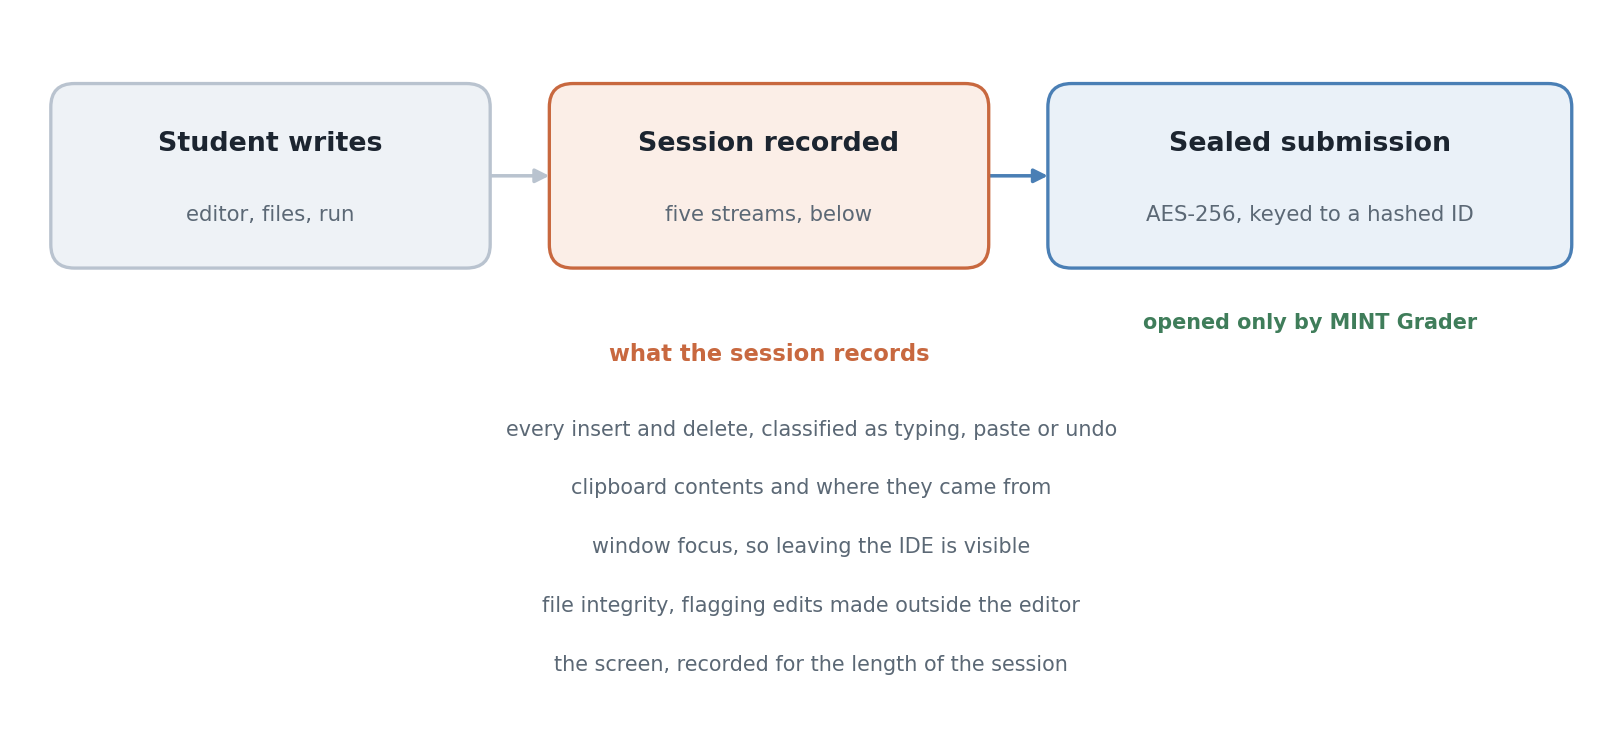
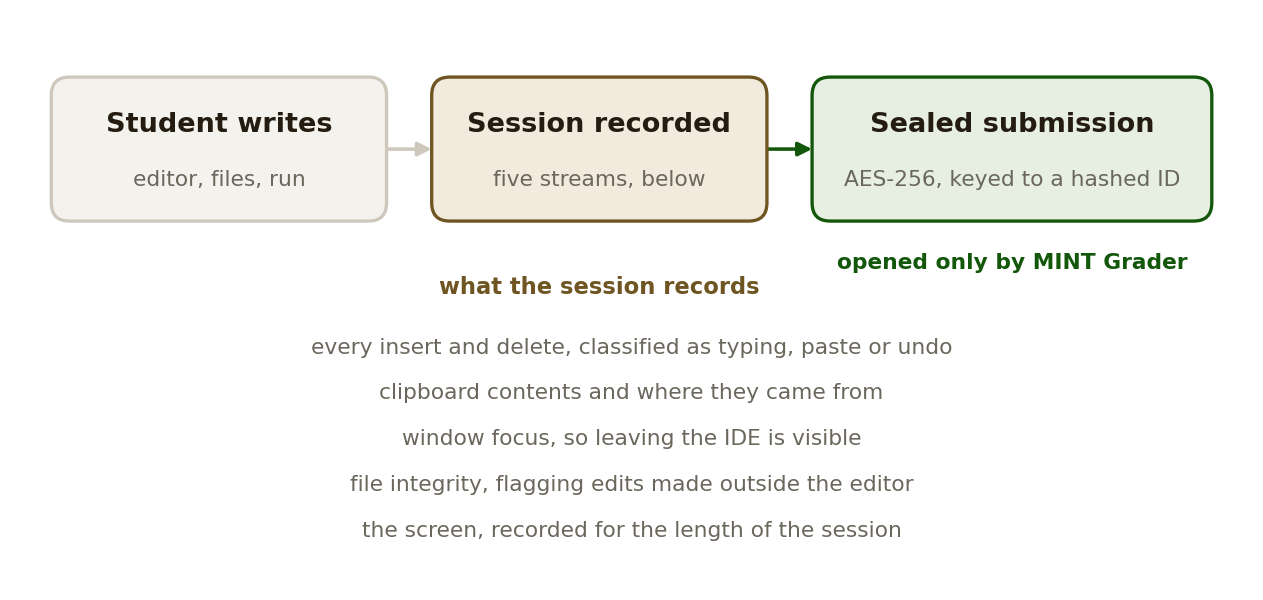
Rebuild README to the second standard
Centered header with shields badges in the fixed order, a Status badge, a
captioned hero redrawn with the shared figstyle palette on a transparent
ground, Features split into subheadings, and a Related section pointing at
MINT Grader. README and docs only; no source file is touched.

diff --git a/docs/figures/figstyle.py b/docs/figures/figstyle.py
@@ -1,0 +1,123 @@
+"""House style for README figures. Copy this file next to make_hero.py.
+
+One palette for every repository, taken from the portfolio site, so a README
+figure, a social preview card and the site read as one hand. Light figures sit
+on GitHub's white canvas, dark figures on its #0d1117 canvas. Both are saved
+with a transparent background: GitHub paints its own canvas behind README
+images, so the figure follows whichever theme the reader has, including the
+dimmed dark theme, without a visible rectangle.
+
+Type: if a fonts/ directory sits beside this file with Archivo-Regular.ttf,
+Archivo-SemiBold.ttf and IBMPlexMono-Medium.ttf (built by
+_standards/fonts/build_fonts.py), labels are set in Archivo and numbers in IBM
+Plex Mono, the site's faces. Without it, DejaVu Sans, so nothing breaks.
+
+    import figstyle
+
+    def draw(T):                       # T is one entry of figstyle.PALETTE
+        fig, ax = plt.subplots(figsize=(figstyle.WIDTH, 4.6))
+        ax.text(..., fontfamily=figstyle.MONO)     # numbers
+        return fig
+
+    figstyle.save_both(draw, HERE + "hero_scenarios")
+    # writes hero_scenarios.png and hero_scenarios-dark.png
+
+Contrast on the canvas each theme is drawn for, WCAG ratio: light green 8.8,
+light gold 7.0, light muted 5.4; dark green 9.8, dark gold 8.4, dark muted 8.2.
+"""
+import glob
+import os
+
+import matplotlib
+
+matplotlib.use("Agg")
+import matplotlib.pyplot as plt
+from matplotlib import font_manager
+
+PALETTE = {
+    "light": dict(
+        canvas="#ffffff",       # GitHub light canvas, for reference only, never painted
+        ink="#241c10",          # site day ink
+        soft="#332918",
+        muted="#6b675c",
+        line="#cdc8bb",
+        fill="#f4f2ec",         # box fill, a warm paper tint on white
+        green="#12570a",        # site day green
+        gold="#6f5522",         # site day gold
+        green_fill="#e6efe2",
+        gold_fill="#f2ebdd",
+    ),
+    "dark": dict(
+        canvas="#0d1117",       # GitHub dark canvas, for reference only, never painted
+        ink="#ece7d9",          # site night ink, bone white
+        soft="#ddd9cb",
+        muted="#a9ac9b",
+        line="#3a3c33",
+        fill="#161811",
+        green="#44d62c",        # site night green, phosphor
+        gold="#c9a96a",         # site night gold, brass
+        green_fill="#12200f",
+        gold_fill="#26211a",
+    ),
+}
+
+DPI = 170
+WIDTH = 9.2      # inches. 900 / (9.2 * 170) = 0.575, so labels survive the README column.
+TITLE = 11.5     # point sizes the standard fixes
+BODY = 9.6
+SMALL = 9.2
+
+_FONTS = os.path.join(os.path.dirname(os.path.abspath(__file__)), "fonts")
+_have_fonts = False
+for _p in glob.glob(os.path.join(_FONTS, "*.ttf")):
+    font_manager.fontManager.addfont(_p)
+    _have_fonts = True
+_names = {f.name for f in font_manager.fontManager.ttflist}
+SANS = "Archivo" if _have_fonts and "Archivo" in _names else "DejaVu Sans"
+MONO = "IBM Plex Mono" if _have_fonts and "IBM Plex Mono" in _names else "DejaVu Sans Mono"
+
+
+def apply(T):
+    """Set matplotlib defaults for one theme. Called by save_both before draw()."""
+    plt.rcParams.update({
+        "font.family": SANS,
+        "font.size": BODY,
+        "text.color": T["ink"],
+        "axes.labelcolor": T["muted"],
+        "axes.edgecolor": T["line"],
+        "axes.linewidth": 1.0,
+        "axes.titlesize": TITLE,
+        "axes.titleweight": "bold",
+        "axes.titlecolor": T["ink"],
+        "axes.spines.top": False,
+        "axes.spines.right": False,
+        "axes.grid": False,
+        "xtick.color": T["muted"],
+        "ytick.color": T["muted"],
+        "xtick.labelsize": BODY,
+        "ytick.labelsize": BODY,
+        "legend.frameon": False,
+        "legend.fontsize": BODY,
+        "figure.facecolor": "none",
+        "axes.facecolor": "none",
+        "savefig.facecolor": "none",
+        "savefig.edgecolor": "none",
+    })
+
+
+def mono_ticks(ax, axis="y"):
+    """Set an axis's tick labels in the numeric face."""
+    for label in (ax.get_yticklabels() if axis == "y" else ax.get_xticklabels()):
+        label.set_fontfamily(MONO)
+
+
+def save_both(draw, stem):
+    """Render draw(T) once per theme and write <stem>.png and <stem>-dark.png."""
+    for theme, suffix in (("light", ""), ("dark", "-dark")):
+        T = PALETTE[theme]
+        apply(T)
+        fig = draw(T)
+        out = f"{stem}{suffix}.png"
+        fig.savefig(out, dpi=DPI, bbox_inches="tight", pad_inches=0.15, transparent=True)
+        plt.close(fig)
+        print("wrote", out)

diff --git a/docs/figures/make_hero.py b/docs/figures/make_hero.py
@@ -1,24 +1,18 @@
-"""Render the exam lifecycle figure used at the top of the README.
+"""Draw the README hero: the exam lifecycle, from writing to a sealed submission.
 
     python docs/figures/make_hero.py
 
 Writes hero_flow.png and hero_flow-dark.png.
 """
 import os
+import sys
 
-import matplotlib
-matplotlib.use("Agg")
-import matplotlib.pyplot as plt
-from matplotlib.patches import FancyBboxPatch, FancyArrowPatch
+HERE = os.path.dirname(os.path.abspath(__file__)) + os.sep
+sys.path.insert(0, HERE)
 
-THEMES = {
-    "light": dict(bg="white", ink="#1c2530", muted="#5b6875", line="#b9c3cf",
-                  fill="#eef2f6", watch="#c8683f", seal="#4a7fb5", out="#3f7d5a",
-                  fwatch="#fbeee7", fseal="#eaf1f8", fout="#e9f2ec"),
-    "dark": dict(bg="#0d1117", ink="#e6edf3", muted="#9198a1", line="#3d444d",
-                 fill="#161b22", watch="#e08a5c", seal="#6ea8dd", out="#5aa87a",
-                 fwatch="#2a1c14", fseal="#12202f", fout="#12241a"),
-}
+import figstyle  # noqa: E402
+import matplotlib.pyplot as plt  # noqa: E402
+from matplotlib.patches import FancyArrowPatch, FancyBboxPatch  # noqa: E402
 
 RECORDED = [
     "every insert and delete, classified as typing, paste or undo",
@@ -28,26 +22,22 @@ RECORDED = [
     "the screen, recorded for the length of the session",
 ]
 
-HERE = os.path.dirname(os.path.abspath(__file__))
 
-
-def render(theme, out):
-    T = THEMES[theme]
-    fig, ax = plt.subplots(figsize=(9.4, 4.2), dpi=170)
+def flow(T):
+    fig, ax = plt.subplots(figsize=(figstyle.WIDTH, 4.2))
     ax.set_xlim(0, 94)
     ax.set_ylim(0, 42)
     ax.axis("off")
-    fig.patch.set_facecolor(T["bg"])
+    G, GF, D, DF = T["green"], T["green_fill"], T["gold"], T["gold_fill"]
 
     def box(x, y, w, h, title, sub, edge=None, face=None, tcol=None):
         ax.add_patch(FancyBboxPatch((x, y), w, h, boxstyle="round,pad=0,rounding_size=1.4",
                                     linewidth=1.4, edgecolor=edge or T["line"],
                                     facecolor=face or T["fill"], zorder=2))
-        ax.text(x + w / 2, y + h / 2 + (1.9 if sub else 0), title, ha="center", va="center",
-                fontsize=11.4, color=tcol or T["ink"], fontweight="bold", zorder=3)
-        if sub:
-            ax.text(x + w / 2, y + h / 2 - 2.3, sub, ha="center", va="center",
-                    fontsize=9.0, color=T["muted"], zorder=3)
+        ax.text(x + w / 2, y + h / 2 + 1.9, title, ha="center", va="center",
+                fontsize=figstyle.TITLE, color=tcol or T["ink"], fontweight="bold", zorder=3)
+        ax.text(x + w / 2, y + h / 2 - 2.3, sub, ha="center", va="center",
+                fontsize=figstyle.SMALL, color=T["muted"], zorder=3)
 
     def arrow(x0, y0, x1, y1, c=None):
         ax.add_patch(FancyArrowPatch((x0, y0), (x1, y1), arrowstyle="-|>", mutation_scale=12,
@@ -56,25 +46,19 @@ def render(theme, out):
     W, H, Y = 26.0, 11.0, 27.0
     box(2.0, Y, W, H, "Student writes", "editor, files, run")
     arrow(28.0, Y + H / 2, 31.5, Y + H / 2)
-    box(31.5, Y, W, H, "Session recorded", "five streams, below", T["watch"], T["fwatch"])
-    arrow(57.5, Y + H / 2, 61.0, Y + H / 2, T["seal"])
-    box(61.0, Y, 31.0, H, "Sealed submission", "AES-256, keyed to a hashed ID", T["seal"], T["fseal"])
+    box(31.5, Y, W, H, "Session recorded", "five streams, below", D, DF)
+    arrow(57.5, Y + H / 2, 61.0, Y + H / 2, G)
+    box(61.0, Y, 31.0, H, "Sealed submission", "AES-256, keyed to a hashed ID", G, GF)
 
-    ax.text(44.5, 21.5, "what the session records", ha="center", fontsize=9.6,
-            color=T["watch"], fontweight="bold")
+    ax.text(44.5, 21.5, "what the session records", ha="center", fontsize=figstyle.BODY,
+            color=D, fontweight="bold")
     for i, line in enumerate(RECORDED):
         ax.text(47.0, 17.4 - i * 3.5, line, ha="center", va="center",
-                fontsize=8.8, color=T["muted"])
-
+                fontsize=figstyle.SMALL, color=T["muted"])
     ax.text(76.5, Y - 3.6, "opened only by MINT Grader", ha="center",
-            fontsize=8.8, color=T["out"], fontweight="bold")
-
-    fig.tight_layout(pad=0.2)
-    fig.savefig(out, dpi=170, bbox_inches="tight", facecolor=T["bg"])
-    plt.close(fig)
-    print("wrote", out)
+            fontsize=figstyle.SMALL, color=G, fontweight="bold")
+    return fig
 
 
 if __name__ == "__main__":
-    render("light", os.path.join(HERE, "hero_flow.png"))
-    render("dark", os.path.join(HERE, "hero_flow-dark.png"))
+    figstyle.save_both(flow, HERE + "hero_flow")

diff --git a/README.md b/README.md
@@ -1,18 +1,26 @@
+<div align="center">
+
 # MINT Exam IDE
 
 Yuhyeon Lee · 2026
 
-[![build](https://github.com/blueion0612/Mint_IDE_Student/actions/workflows/build.yml/badge.svg)](https://github.com/blueion0612/Mint_IDE_Student/actions/workflows/build.yml)
-[![Release](https://img.shields.io/github/v/release/blueion0612/Mint_IDE_Student)](https://github.com/blueion0612/Mint_IDE_Student/releases)
+[![build](https://img.shields.io/github/actions/workflow/status/blueion0612/Mint_IDE_Student/build.yml?label=build)](https://github.com/blueion0612/Mint_IDE_Student/actions/workflows/build.yml)
 [![License](https://img.shields.io/github/license/blueion0612/Mint_IDE_Student)](LICENSE)
 [![Platform](https://img.shields.io/badge/platform-Windows%20%7C%20macOS-lightgrey)](#requirements)
+[![Status](https://img.shields.io/badge/status-maintained-orange)](#limitations)
+[![Release](https://img.shields.io/github/v/release/blueion0612/Mint_IDE_Student)](https://github.com/blueion0612/Mint_IDE_Student/releases)
 
-[**Releases**](https://github.com/blueion0612/Mint_IDE_Student/releases) · [**Grader**](https://github.com/blueion0612/Mint_IDE_Teacher) · [**Install**](#quick-start)
+[**Releases**](https://github.com/blueion0612/Mint_IDE_Student/releases) · [**Grader**](https://github.com/blueion0612/Mint_IDE_Teacher) · [**Related**](#related)
 
 <picture>
   <source media="(prefers-color-scheme: dark)" srcset="docs/figures/hero_flow-dark.png">
   <img alt="A student writes in the editor, the session is recorded as five streams, and the result is sealed into an encrypted submission that only the grader opens" src="docs/figures/hero_flow.png">
 </picture>
+
+</div>
+
+*The exam lifecycle. The recorder, in gold, runs for the length of the session and
+feeds the sealed submission, in green, which only MINT Grader opens.*
 
 **MINT Exam IDE** is the student side of a programming exam. It is an editor that
 records how the code was written, not only what was written, and seals the result
@@ -23,12 +31,16 @@ The user interface is Korean, because that is who sits the exams it was built fo
 
 ## Features
 
-**Editing.** Syntax highlighting for Python, JavaScript, TypeScript, Java, C and
+### Editing
+
+Syntax highlighting for Python, JavaScript, TypeScript, Java, C and
 C++. A file tree with drag and drop, folders, renaming and import. Code runs from
 the editor with its output in a panel beside it, and Python can be pointed at the
 system interpreter or a chosen virtual environment.
 
-**Recording.** Five streams run for the length of the session:
+### Recording
+
+Five streams run for the length of the session:
 
 | Stream | What it captures |
 |---|---|
@@ -38,7 +50,9 @@ system interpreter or a chosen virtual environment.
 | File integrity | files changed outside the editor, flagged as tampering |
 | Screen | a recording covering the session |
 
-**Submission.** The work is packed into an AES-256 encrypted archive whose key is
+### Submission
+
+The work is packed into an AES-256 encrypted archive whose key is
 derived from a hashed student identifier, so a submission cannot be opened, altered
 or re-sealed after the fact without the grader.
 
@@ -94,7 +108,7 @@ src-tauri/            the Rust side: monitoring, recording, packaging
 install-windows.ps1   one-pass Windows setup
 install-mac.sh        macOS setup, builds from source
 install-linux.sh      Linux setup
-docs/figures/         README figure and the script that draws it
+docs/figures/         README figure, the script that draws it, figstyle.py
 ```
 
 ## Requirements
@@ -120,6 +134,12 @@ npx tauri build
 - **The interface is Korean only.**
 - Integrity checking detects edits made outside the editor. It is not a sandbox and
   does not prevent them.
+
+## Related
+
+- [MINT Grader](https://github.com/blueion0612/Mint_IDE_Teacher): the invigilator's
+  half. It verifies and decrypts a whole batch of the submissions this editor seals,
+  and lays the edit history beside the code.
 
 ## License
 
